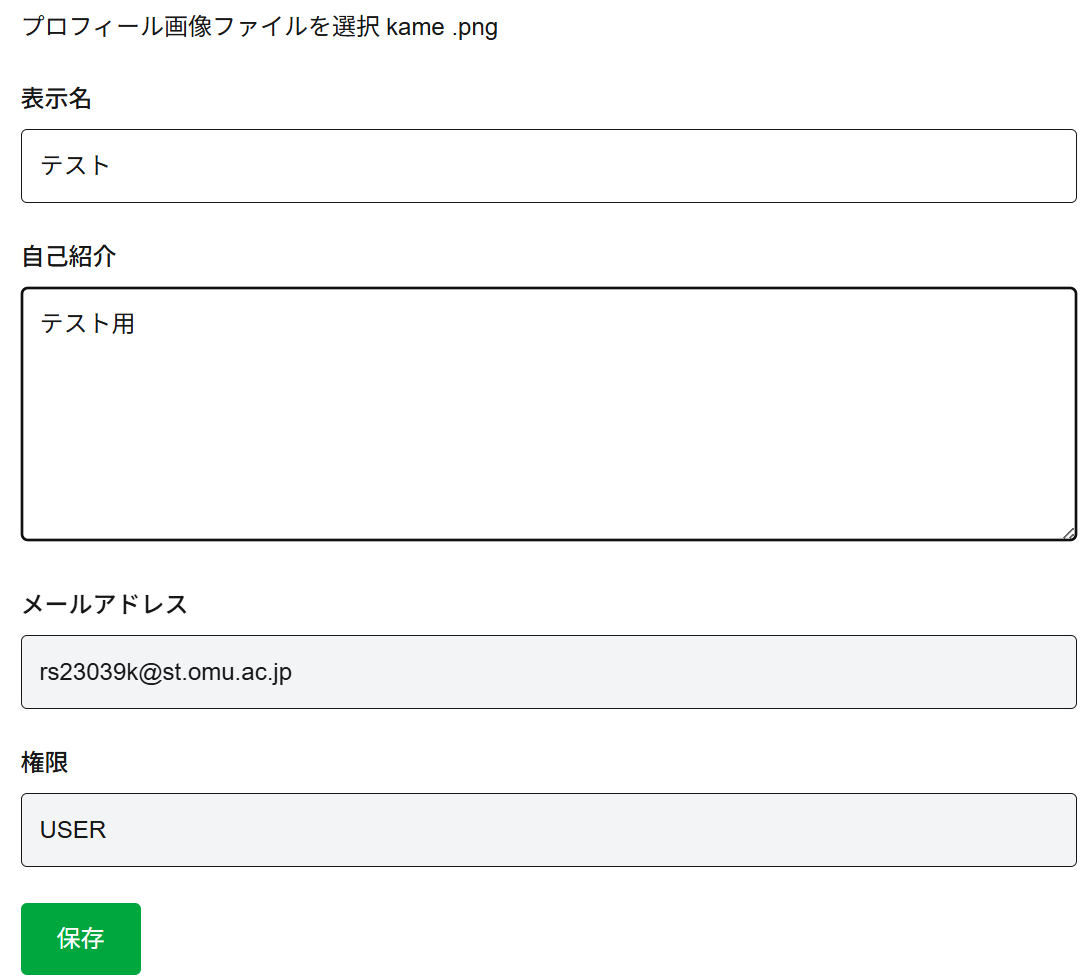
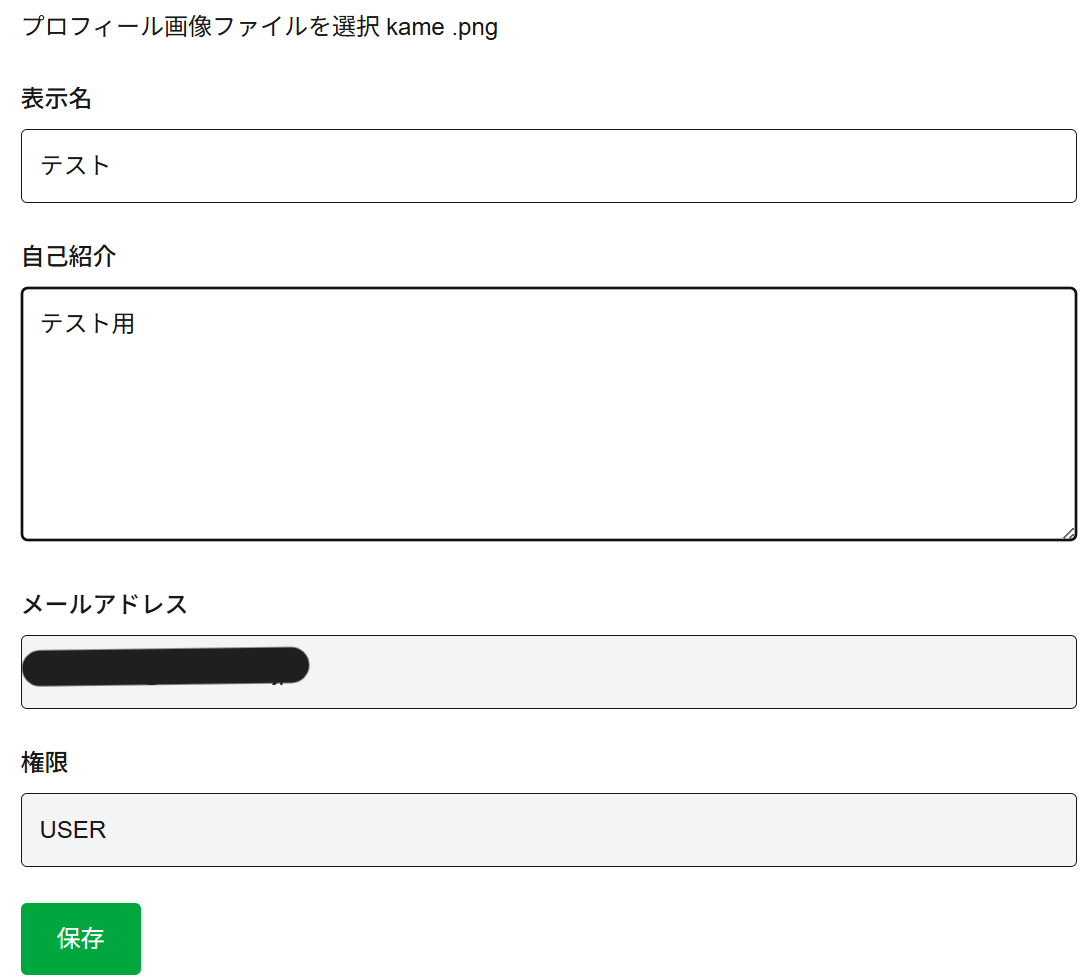
Added garden calendar feature

Changed region(s): [[0.0, 0.6435, 0.3039, 0.7048]]

diff --git a/src/components/garden/GardenCalendar.tsx b/src/components/garden/GardenCalendar.tsx
@@ -1,0 +1,45 @@
+"use client";
+
+import { useState } from "react";
+import { DayPicker } from "react-day-picker";
+import GardenLogList from "./GardenLogList";
+
+type GardenLog = {
+  id: number;
+  title: string;
+  content: string;
+  plantName: string | null;
+  recordDate: Date;
+};
+
+type Props = {
+  logs: GardenLog[];
+};
+
+export default function GardenCalendar({ logs }: Props) {
+  const [selected, setSelected] = useState<Date>();
+  const markedDays = logs.map((log) => new Date(log.recordDate));
+
+  const filteredLogs = logs.filter((log) => {
+    if (!selected) return false;
+    return new Date(log.recordDate).toDateString() === selected.toDateString();
+  });
+
+  return (
+    <>
+      <DayPicker
+        mode="single"
+        selected={selected}
+        onSelect={setSelected}
+        modifiers={{
+          hasLog: markedDays,
+        }}
+        modifiersClassNames={{
+          hasLog: "bg-green-500 text-white rounded-full",
+        }}
+      />
+      <GardenLogList logs={filteredLogs} />
+      <p className="mt-6">{selected?.toLocaleDateString("ja-JP")}</p>
+    </>
+  );
+}

diff --git a/src/components/garden/GardenLogList.tsx b/src/components/garden/GardenLogList.tsx
@@ -1,0 +1,29 @@
+type GardenLog = {
+  id: number;
+  title: string;
+  content: string;
+  plantName: string | null;
+  recordDate: Date;
+};
+
+type Props = {
+  logs: GardenLog[];
+};
+
+export default function GardenLogList({ logs }: Props) {
+  if (logs.length === 0) {
+    return <p className="mt-6 text-gray-500">この日の記録はありません。</p>;
+  }
+
+  return (
+    <div className="mt-6 space-y-4">
+      {logs.map((log) => (
+        <div key={log.id} className="rounded-lg border p-4 shadow-sm">
+          <p className="text-sm text-green-700">🌱 {log.plantName}</p>
+          <h2 className="text-xl font-semibold">{log.title}</h2>
+          <p className="mt-2 whitespace-pre-wrap">{log.content}</p>
+        </div>
+      ))}
+    </div>
+  );
+}

diff --git a/src/app/garden/calendar/page.tsx b/src/app/garden/calendar/page.tsx
@@ -1,0 +1,18 @@
+import { prisma } from "@/lib/prisma";
+import GardenCalendar from "@/components/garden/GardenCalendar";
+
+export default async function CalendarPage() {
+  const logs = await prisma.gardenLog.findMany({
+    orderBy: {
+      recordDate: "desc",
+    },
+  });
+
+  return (
+    <main className="mx-auto max-w-5xl p-8">
+      <h1 className="mb-6 text-3xl font-bold">Garden Calendar</h1>
+
+      <GardenCalendar logs={logs} />
+    </main>
+  );
+}

diff --git a/src/app/admin/new/page.tsx b/src/app/admin/new/page.tsx
@@ -13,6 +13,12 @@ export default function NewGardenPage() {
         </div>
 
         <div>
+          <label>植物名</label>
+
+          <input type="text" name="plantName" required className="..." />
+        </div>
+
+        <div>
           <label>本文</label>
 
           <textarea

diff --git a/src/app/garden/[id]/page.tsx b/src/app/garden/[id]/page.tsx
@@ -32,6 +32,11 @@ export default async function GardenDetail({ params }: Props) {
         {log.recordDate.toLocaleDateString("ja-JP")}
       </p>
 
+      <p>
+        植物名：
+        {log.plantName}
+      </p>
+
       <article className="mt-6 whitespace-pre-wrap">{log.content}</article>
 
       <div className="mt-8">

diff --git a/src/app/actions/garden.ts b/src/app/actions/garden.ts
@@ -13,11 +13,13 @@ export async function createGardenLog(formData: FormData) {
   const profile = await requireAdmin();
   const image = formData.get("image") as File;
   const imagePath = await uploadGardenImage(image);
+  const plantName = formData.get("plantName")?.toString();
 
   await prisma.gardenLog.create({
     data: {
       title,
       content,
+      plantName,
       recordDate: new Date(recordDate),
       author: {
         connect: {

diff --git a/src/app/garden/page.tsx b/src/app/garden/page.tsx
@@ -37,6 +37,7 @@ export default async function GardenPage() {
             <h2>{log.title}</h2>
             <p>{log.recordDate.toLocaleDateString()}</p>
             <p>{log.content}</p>
+            <p>🌱 {log.plantName}</p>
 
             {imageUrl && (
               <Image src={imageUrl} width={400} height={250} alt={log.title} />

diff --git a/src/app/globals.css b/src/app/globals.css
@@ -1,4 +1,5 @@
 @import "tailwindcss";
+@import "react-day-picker/dist/style.css";
 
 :root {
   --background: #ffffff;

diff --git a/README.md b/README.md
@@ -9,7 +9,7 @@ Supabase Auth による認証、Prisma によるデータ管理、Supabase Stora
 
 ## 使用時間
 
-12時間
+15時間
 
 ---
 
@@ -45,7 +45,6 @@ Supabase Auth による認証、Prisma によるデータ管理、Supabase Stora
 - パスワード強度メーター
 - パスワードの表示 / 非表示切り替え
 - ログイン画面でのパスワード表示 / 非表示切り替え
-- ログイン画面でのパスワード強度メーター
 
 ---
 